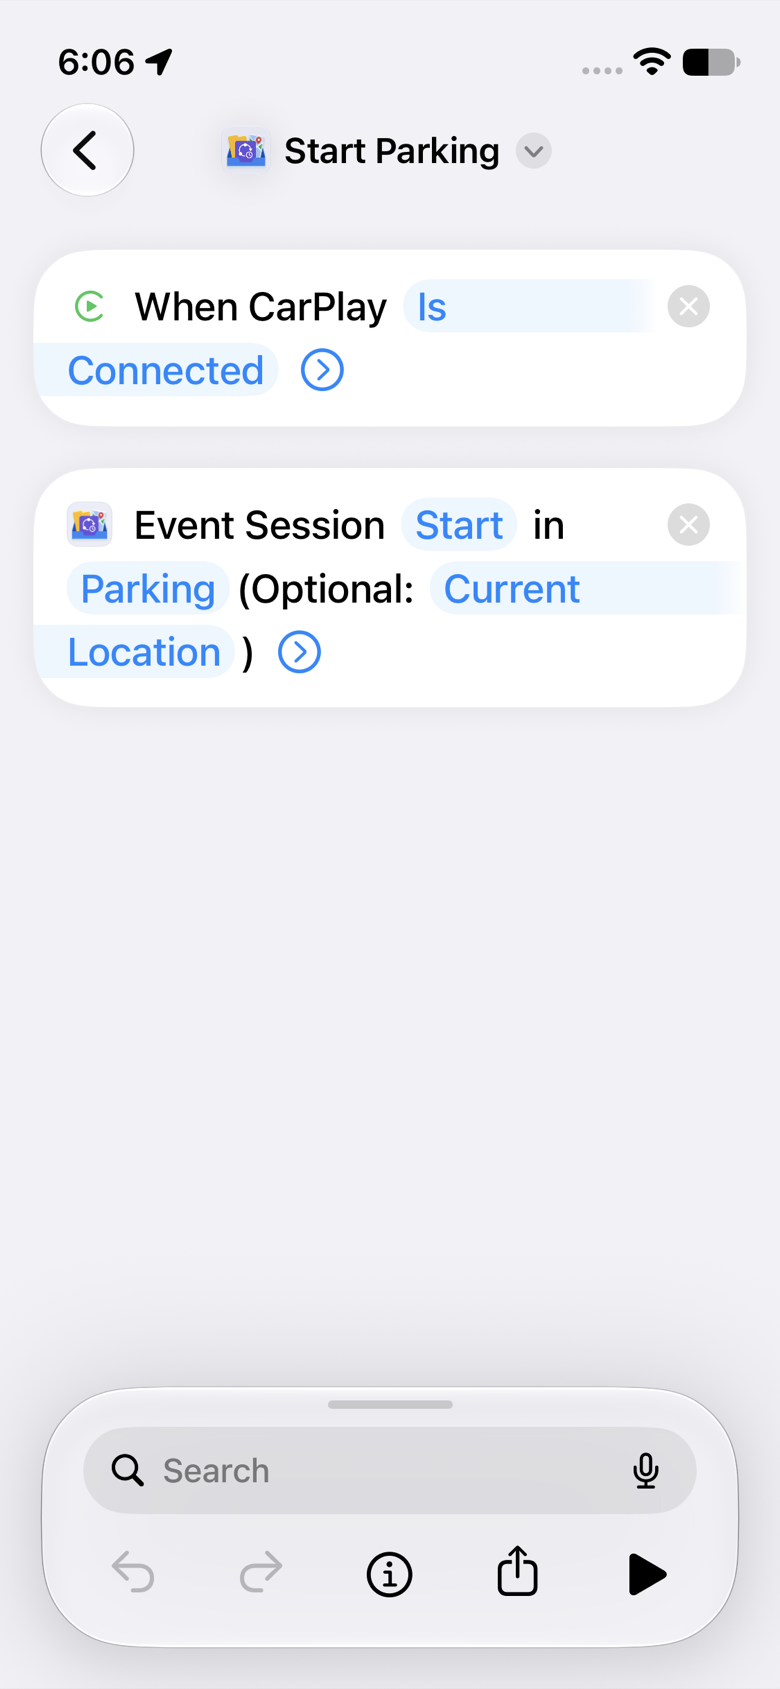
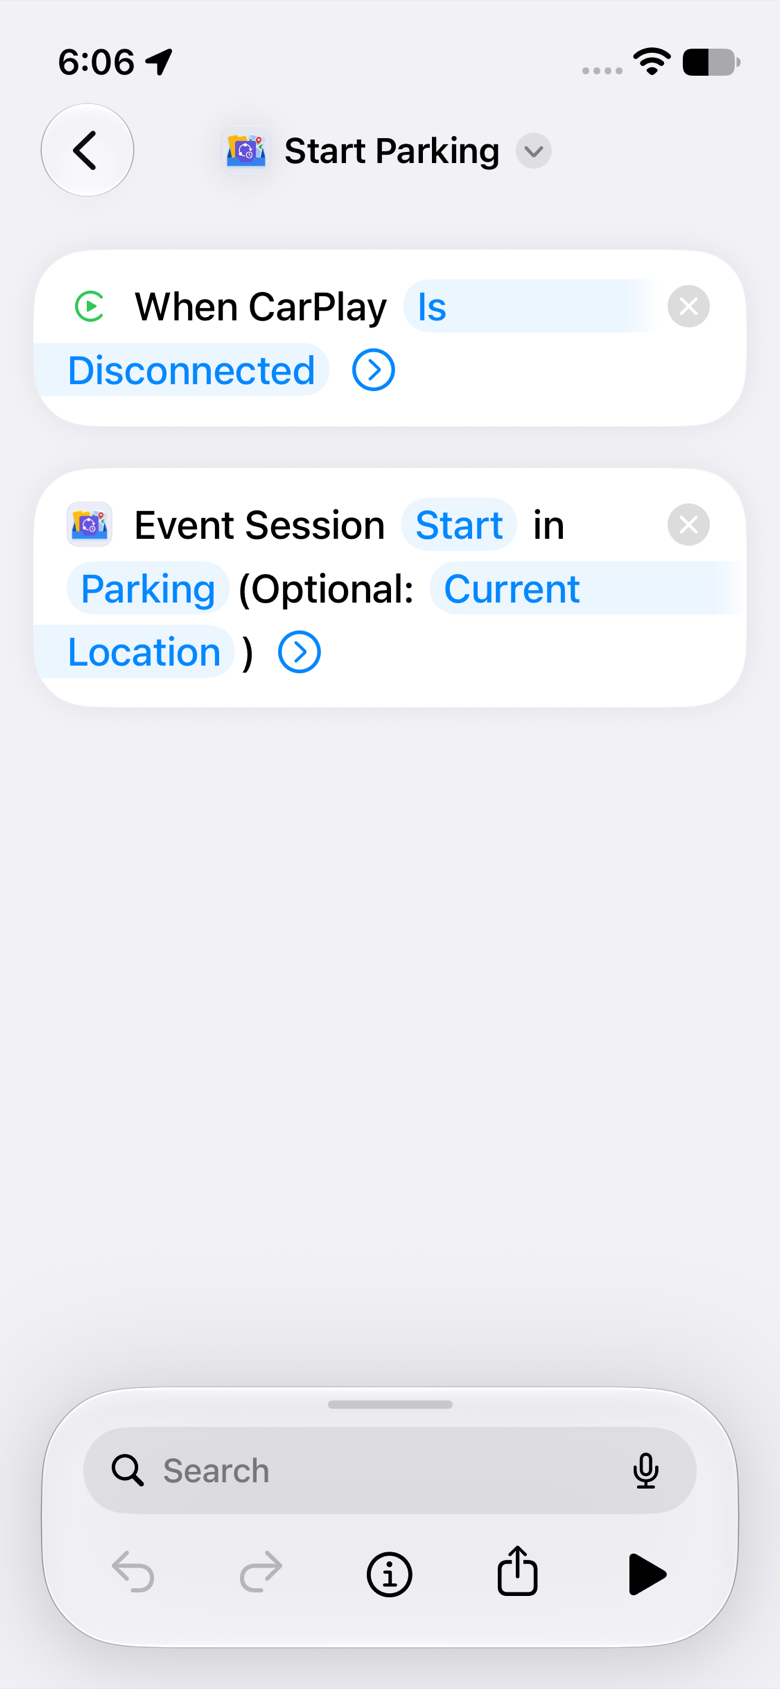
更新文档：优化标题和描述，强调实时活动、事件会话和全局变量数据存储的功能；调整停车示例中的 CarPlay 和 Bluetooth 自动化描述，确保用户理解连接与断开操作的正确顺序。

diff --git a/index.html b/index.html
@@ -3,10 +3,10 @@
   <head>
     <meta charset="utf-8" />
     <meta name="viewport" content="width=device-width, initial-scale=1" />
-    <title>AnyStash — Live Activities &amp; Data Store for Shortcuts</title>
+    <title>AnyStash — Shortcuts Live Activities, Variables &amp; Data Store</title>
     <meta
       name="description"
-      content="AnyStash is a Shortcuts companion: stash typed values and files, locations, event sessions, and Live Activities on Lock Screen and Dynamic Island."
+      content="AnyStash is a Shortcuts companion: Lock Screen &amp; Dynamic Island Live Activities, start/stop event sessions with optional photos, location history, and a browsable global variables data store."
     />
     <meta name="application-name" content="AnyStash" />
     <link rel="canonical" href="https://anystash.izip.vip/" />
@@ -14,11 +14,11 @@
     <meta property="og:type" content="website" />
     <meta
       property="og:title"
-      content="AnyStash — Live Activities &amp; Data Store for Shortcuts"
+      content="AnyStash — Shortcuts Live Activities, Variables &amp; Data Store"
     />
     <meta
       property="og:description"
-      content="AnyStash is a Shortcuts companion: stash typed values and files, locations, event sessions, and Live Activities on Lock Screen and Dynamic Island."
+      content="AnyStash is a Shortcuts companion: Lock Screen &amp; Dynamic Island Live Activities, start/stop event sessions with optional photos, location history, and a browsable global variables data store."
     />
     <meta property="og:url" content="https://anystash.izip.vip/" />
     <script type="application/ld+json">
@@ -74,9 +74,10 @@
         </p>
         <p class="hero__aside">
           Event Sessions keep start/stop activities you can review later—
-          <strong>duration</strong>, <strong>location</strong>, and
-          <strong>history</strong>—with an optional timed Live Activity on the
-          Lock Screen and Dynamic Island while they run.
+          <strong>duration</strong>, <strong>photos</strong>,
+          <strong>location</strong>, and <strong>history</strong>—with an
+          optional timed Live Activity on the Lock Screen and Dynamic Island
+          while they run.
         </p>
         <div class="actions">
           <a
@@ -96,18 +97,20 @@
           <p>
             When you start an Event Session, leave Show Live Activity On to
             request a count-up or countdown on the Lock Screen and Dynamic
-            Island—with optional location and a reminder when a timed session
-            ends. Built for parking timers, Focus, meetings, and visits.
+            Island—with optional location, one-tap photo capture, and a reminder
+            when a timed session ends. Built for Focus, parking timers,
+            meetings, and visits.
           </p>
         </section>
         <section class="panel">
           <p class="chip">Event Sessions</p>
-          <h2>Start, end, and history</h2>
+          <h2>Start, end, photos &amp; history</h2>
           <p>
             Record sessions with Start, End, and Checkpoint—the primary unit for
             history and Free daily limits. Optional Live Activity is display
-            only. Browse notes and category filters in the app—a clear run log
-            for shortcuts, errands, and anything you want to review later.
+            only. Attach photos and browse notes and category filters in the
+            app—a clear run log for shortcuts, errands, and anything you want to
+            review later.
           </p>
         </section>
         <section class="panel">
@@ -135,10 +138,10 @@
         <p class="chip">Help &amp; purchase</p>
         <h2>Technical support</h2>
         <p>
-          Free to try with the full Shortcuts action set. Pro Lifetime is an
-          optional one-time unlock—no separate AnyStash account. Read the FAQ
-          for Event Sessions, Live Activities, Restore Purchases, and free
-          daily Event Session starts.
+          Free to use with the full Shortcuts action set—no subscription and no
+          separate AnyStash account. Pro Lifetime is an optional one-time
+          unlock. Read the FAQ for Event Sessions, Live Activities, Restore
+          Purchases, and free daily Event Session starts.
         </p>
         <p>
           <a href="support/">Support</a>

diff --git a/examples/parking/index.html b/examples/parking/index.html
@@ -292,8 +292,8 @@
         <p>
           Real parking flows usually start or stop <em>without</em> opening
           Shortcuts by hand. A common pair:
-          <strong>When CarPlay connects</strong> → start parking;
-          <strong>When CarPlay disconnects</strong> → end parking—or the same
+          <strong>When CarPlay disconnects</strong> → start parking;
+          <strong>When CarPlay connects</strong> → end parking—or the same
           pairing with car <strong>Bluetooth</strong>.
         </p>
         <div class="callout">
@@ -354,14 +354,14 @@
             <ul>
               <li>
                 <strong>CarPlay</strong> — only if CarPlay actually connects
-                (wired or wireless). You’ll make two Automations: connects →
-                start, disconnects → end.
+                (wired or wireless). You’ll make two Automations: disconnects →
+                start, connects → end.
               </li>
               <li>
                 <strong>Bluetooth</strong> — if you only get phone audio / HFP
                 / A2DP and never see CarPlay. Pick your <em>car</em> Bluetooth
-                device (not AirPods). Same pairing: connects → start,
-                disconnects → end.
+                device (not AirPods). Same pairing: disconnects → start,
+                connects → end.
               </li>
             </ul>
           </li>
@@ -373,13 +373,13 @@
             </p>
             <ul>
               <li>
-                <strong>Connects</strong> → Phase <strong>Start</strong>,
+                <strong>Disconnects</strong> → Phase <strong>Start</strong>,
                 Category <strong>Parking</strong>, Location = Current Location
                 (optional)
               </li>
               <li>
-                <strong>Disconnects</strong> → Phase <strong>End</strong>, End
-                By <strong>Category</strong>, Category <strong>Parking</strong>
+                <strong>Connects</strong> → Phase <strong>End</strong>, End By
+                <strong>Category</strong>, Category <strong>Parking</strong>
               </li>
             </ul>
             <details class="shot-aside">
@@ -393,27 +393,27 @@
             <figure class="shot">
               <img
                 src="../assets/parking-08-carplay-connect.png"
-                alt="iOS 27 Automation editor: When CarPlay is Connected with Event Session Start in Parking"
-                width="390"
-                height="844"
-                loading="lazy"
-              />
-              <figcaption>
-                Example (CarPlay): When CarPlay Is Connected → Event Session
-                Start in Parking
-              </figcaption>
-            </figure>
-            <figure class="shot">
-              <img
-                src="../assets/parking-09-carplay-disconnect.png"
-                alt="iOS 27 Automation editor: When CarPlay is Disconnected with Event Session End by Category in Parking"
+                alt="iOS 27 Automation editor: When CarPlay is Disconnected with Event Session Start in Parking"
                 width="390"
                 height="844"
                 loading="lazy"
               />
               <figcaption>
                 Example (CarPlay): When CarPlay Is Disconnected → Event Session
-                End by Category in Parking
+                Start in Parking
+              </figcaption>
+            </figure>
+            <figure class="shot">
+              <img
+                src="../assets/parking-09-carplay-disconnect.png"
+                alt="iOS 27 Automation editor: When CarPlay is Connected with Event Session End by Category in Parking"
+                width="390"
+                height="844"
+                loading="lazy"
+              />
+              <figcaption>
+                Example (CarPlay): When CarPlay Is Connected → Event Session End
+                by Category in Parking
               </figcaption>
             </figure>
           </li>

diff --git a/support/index.html b/support/index.html
@@ -626,6 +626,16 @@
               there before the next planned session.
             </p>
           </details>
+          <details>
+            <summary>Camera and Photo Library for session photos</summary>
+            <p>
+              Camera and Photo Library access are only requested when you snap
+              or attach photos to an <strong>Event Session</strong>, tap the
+              camera button on a <strong>Live Activity</strong>, or save media
+              to a file variable. If you previously denied Camera access, enable
+              it in <strong>iOS Settings → AnyStash</strong>.
+            </p>
+          </details>
         </div>
       </article>
     </main>

diff --git a/privacy/index.html b/privacy/index.html
@@ -86,7 +86,8 @@
             variable keys and values).
           </li>
           <li>
-            Optional photos, videos, or files you attach to file variables.
+            Optional photos, videos, or files you attach to event sessions, Live
+            Activities, or file variables.
           </li>
         </ul>
         <p>
@@ -166,7 +167,7 @@
           </li>
           <li>
             Camera, microphone, and photo library: only when you add or capture
-            media for file variables.
+            media for event sessions, Live Activities, or file variables.
           </li>
         </ul>
 
